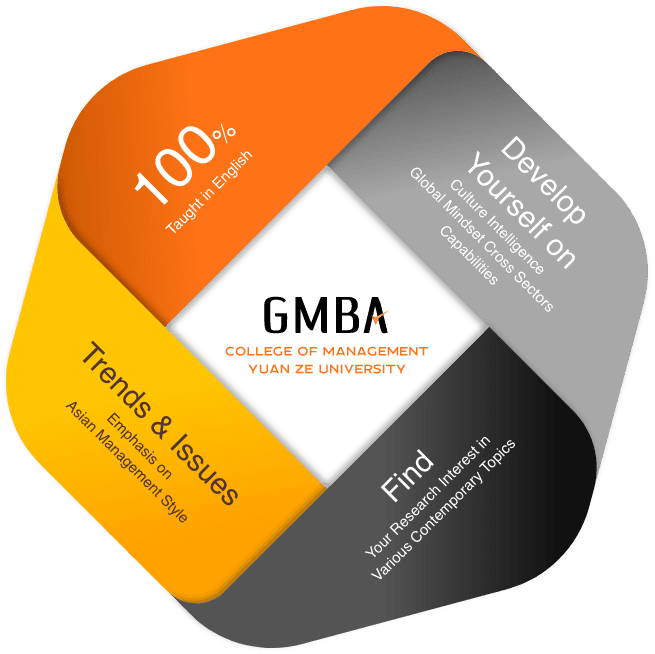
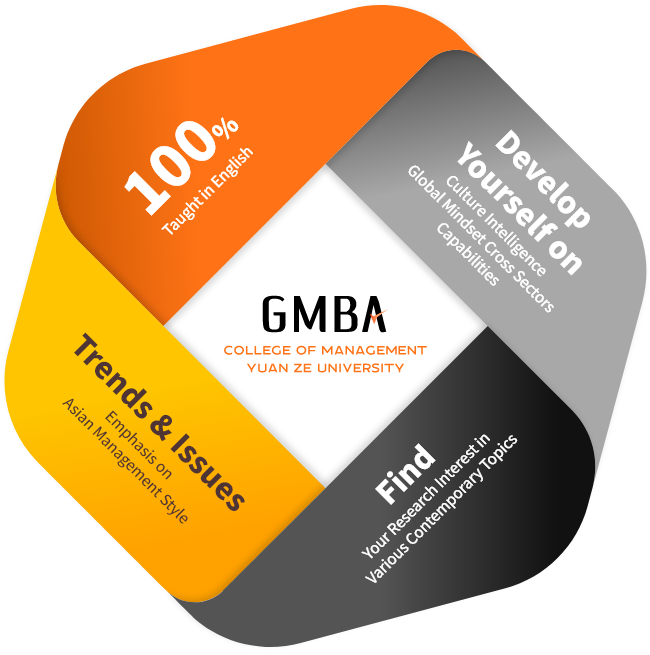
update

diff --git a/GMBA/index.html b/GMBA/index.html
@@ -72,7 +72,7 @@
           </div>
         </div>
         <div class="right map_anchor">
-          <div class="video" data-aos="fade-left" data-aos-anchor=".map_anchor">
+          <div class="video" data-aos="fade-left" data-aos-anchor=".map_anchor" data-aos-id="point_anchor">
             <img src="images/video1.png" alt="">
             <div class="play"></div>
             <p>IN YZU</p>
@@ -232,27 +232,27 @@
         <p class="fz30 fw_bold text_orange side_orange" data-aos="slide-right" data-aos-anchor=".inspire_right_anchor" data-aos-delay="100">Course We Provide</p>
         <div class="lists">
           <div class="list icon_guard" data-aos="fade-right" data-aos-anchor=".inspire_right_anchor" data-aos-delay="150">
-            <p class="title fz_black">GMBA Core Courses</p>
+            <p class="title fw_black">GMBA Core Courses</p>
             <p>Provide you with must have knowledge & skills of managing a business entity</p>
           </div>
           <div class="list icon_battery" data-aos="fade-right" data-aos-anchor=".inspire_right_anchor" data-aos-delay="200">
-            <p class="title fz_black">Fundamental & tools</p>
+            <p class="title fw_black">Fundamental & tools</p>
             <p>Additional tools as globalized professional manager</p>
           </div>
           <div class="list icon_scale" data-aos="fade-right" data-aos-anchor=".inspire_right_anchor" data-aos-delay="250">
-            <p class="title fz_black">Research Methods</p>
+            <p class="title fw_black">Research Methods</p>
             <p>Data analysis tools for perfect data management</p>
           </div>
           <div class="list icon_user" data-aos="fade-right" data-aos-anchor=".inspire_right_anchor" data-aos-delay="300">
-            <p class="title fz_black">Culture & Management</p>
+            <p class="title fw_black">Culture & Management</p>
             <p>Add-on cultural intelligence</p>
           </div>
           <div class="list icon_gear" data-aos="fade-right" data-aos-anchor=".inspire_right_anchor" data-aos-delay="350">
-            <p class="title fz_black">Industry Practice / International Learning</p>
+            <p class="title fw_black">Industry Practice / International Learning</p>
             <p>Topped with local adaptability</p>
           </div>
           <div class="list icon_paper" data-aos="fade-right" data-aos-anchor=".inspire_right_anchor" data-aos-delay="400">
-            <p class="title fz_black">Thesis</p>
+            <p class="title fw_black">Thesis</p>
             <p>Oral defense of thesis must be completed</p>
           </div>
         </div>

diff --git a/GMBA/css/main.css b/GMBA/css/main.css
@@ -280,7 +280,7 @@ section h1 {
 
 .btn {
   font-size: 0.7rem;
-  padding: 0.8rem 1rem 0.5rem;
+  padding: 0.8rem 1rem;
   border: none;
   border-radius: 2rem;
   display: inline-block;
@@ -329,7 +329,7 @@ section h1 {
   display: inline-block;
   vertical-align: middle;
   margin-left: 0.6rem;
-  margin-top: -0.2rem;
+  margin-top: -0.1rem;
 }
 
 .firstview {
@@ -836,23 +836,35 @@ section h1 {
   left: 0;
   margin-top: 2px;
 }
+@media screen and (max-width: 1441px) {
+  .inspire .lists .list::before {
+    width: 28px;
+    height: 28px;
+  }
+}
 .inspire .lists .list.icon_guard::before {
   background: url("../images/icon_guard.png") center center no-repeat;
+  background-size: contain;
 }
 .inspire .lists .list.icon_battery::before {
   background: url("../images/icon_battery.png") center center no-repeat;
+  background-size: contain;
 }
 .inspire .lists .list.icon_scale::before {
   background: url("../images/icon_scale_black.png") center center no-repeat;
+  background-size: contain;
 }
 .inspire .lists .list.icon_user::before {
   background: url("../images/icon_user.png") center center no-repeat;
+  background-size: contain;
 }
 .inspire .lists .list.icon_gear::before {
   background: url("../images/icon_gear.png") center center no-repeat;
+  background-size: contain;
 }
 .inspire .lists .list.icon_paper::before {
   background: url("../images/icon_paper.png") center center no-repeat;
+  background-size: contain;
 }
 .inspire .lists .list p {
   font-size: 0.8rem;
@@ -1106,8 +1118,8 @@ section h1 {
 }
 .gsa .lists .list::before {
   content: "";
-  width: 56px;
-  height: 56px;
+  width: 2.8rem;
+  height: 2.8rem;
   border-radius: 50%;
   position: absolute;
   left: 0;
@@ -1130,7 +1142,7 @@ section h1 {
 }
 .gsa .lists .list p.title {
   font-size: 1.2rem;
-  margin-bottom: 0.5em;
+  margin-bottom: 0.2em;
 }
 .gsa .photos {
   display: -ms-grid;

diff --git a/GMBA/js/main.js b/GMBA/js/main.js
@@ -58,19 +58,11 @@ var pieIO = new IntersectionObserver(function (entries) {
   threshold: .5
 });
 pieIO.observe(document.querySelector('.block2'));
-document.addEventListener('aos:in', function (_ref) {
-  var detail = _ref.detail;
-
-  if (detail.classList.contains('map_anchor')) {
-    document.querySelector('section.map').classList.add('showPoint');
-  }
+document.addEventListener('aos:in:point_anchor', function () {
+  document.querySelector('section.map').classList.add('showPoint');
 });
-document.addEventListener('aos:out', function (_ref2) {
-  var detail = _ref2.detail;
-
-  if (detail.classList.contains('map_anchor')) {
-    document.querySelector('section.map').classList.remove('showPoint');
-  }
+document.addEventListener('aos:out:point_anchor', function () {
+  document.querySelector('section.map').classList.remove('showPoint');
 });
 var totalSlides = $('.slides .slide').length;
 $('.pager .total').text('0' + totalSlides);
